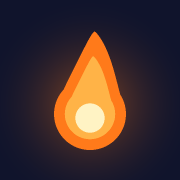
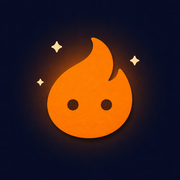
앱 아이콘을 로고의 불씨 캐릭터로 교체

Changed region(s): [[0.1944, 0.1667, 0.8611, 0.9722], [0.7222, 0.3056, 0.7778, 0.3611]]

diff --git a/sw.js b/sw.js
@@ -1,5 +1,5 @@
 'use strict';
-const CACHE = 'bulssi-v19';
+const CACHE = 'bulssi-v20';
 const FONT_HOSTS = ['fonts.googleapis.com', 'fonts.gstatic.com'];
 const FILES = [
   './', 'index.html', 'manifest.webmanifest', 'js/data.js', 'js/game.js', 'js/render.js', 'js/ui.js', 'icons/icon-192.png', 'icons/icon-512.png', 'assets/logo.png', 'assets/start.jpg',
